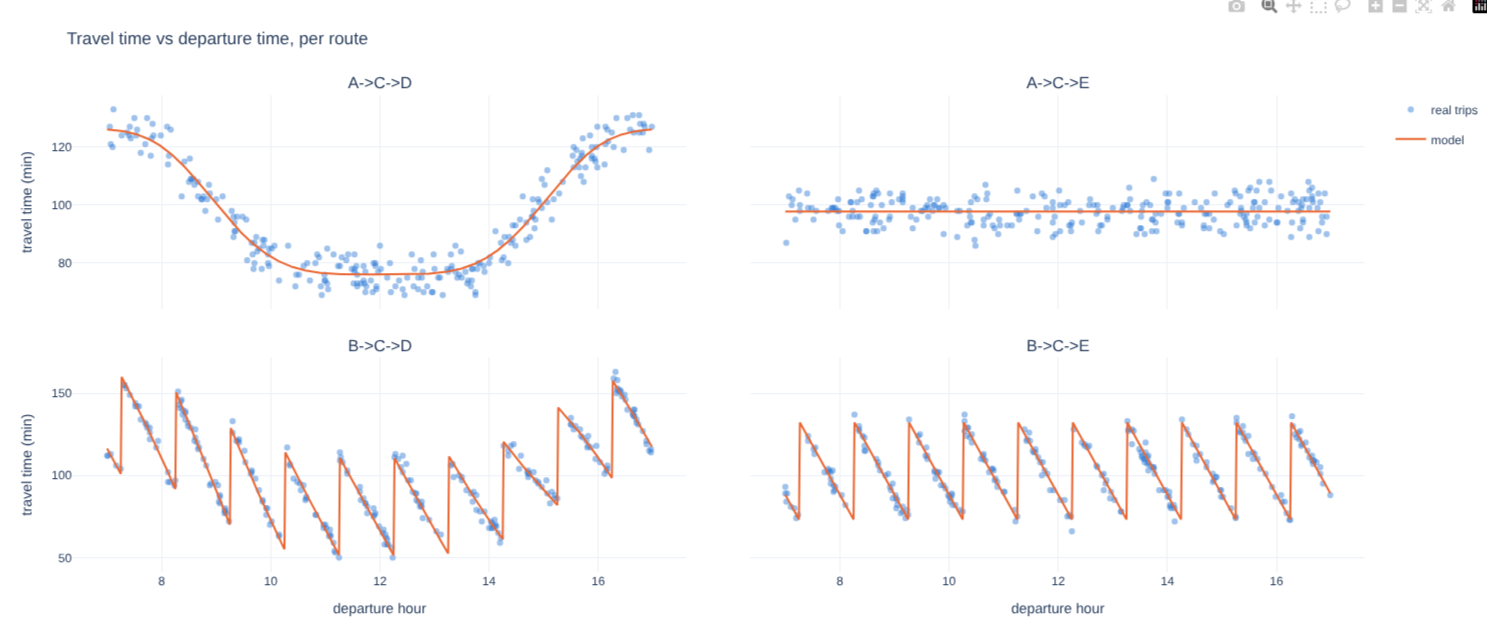
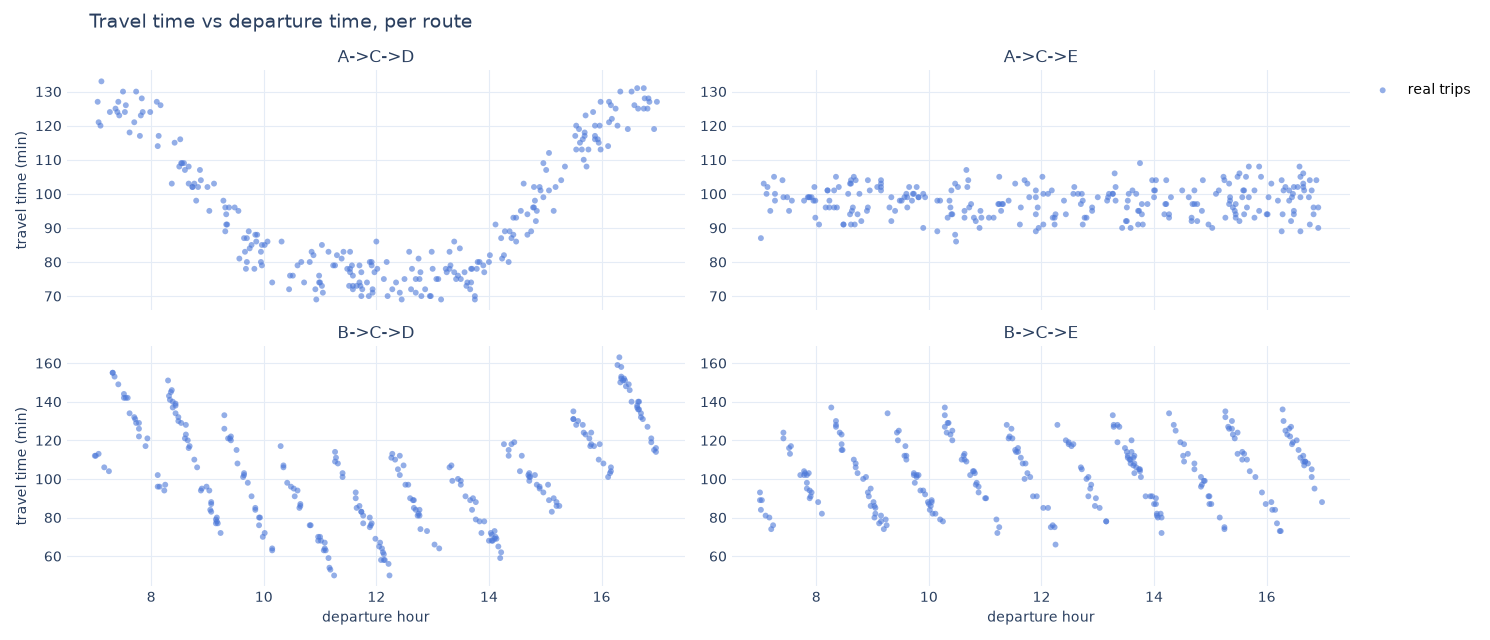
change img

diff --git a/report/report.md b/report/report.md
@@ -8,7 +8,9 @@ During this Handin, we worked with representing data through plotting and then g
 
 - A->C->D: Looks like an inverse bell curve or U- Shape, meaning that early in the morning and in the evening, during peak traffic hours, travel times increase significantly due to traffic.
 
-- A->C->E: Looks like a constant, meaning that whatever the start time is during the day, travel time stays about the same.
+- A->C->E: Looks like a conRoute B > C > E: Sawtooth Wave
+Equation: $f(t) = b + A \cdot \left(1.0 - ((t - s) \bmod 1.0)\right)$
+Parameters: 3 parameters ($b, A, s$)stant, meaning that whatever the start time is during the day, travel time stays about the same.
 
 - B->C->E: This is a sawtooth function, meaning that travel times can experience recurring spikes of traffic followed by sudden drops, likely because of hourly scheduling or something like a “ferry” that passes by every hour.
 
